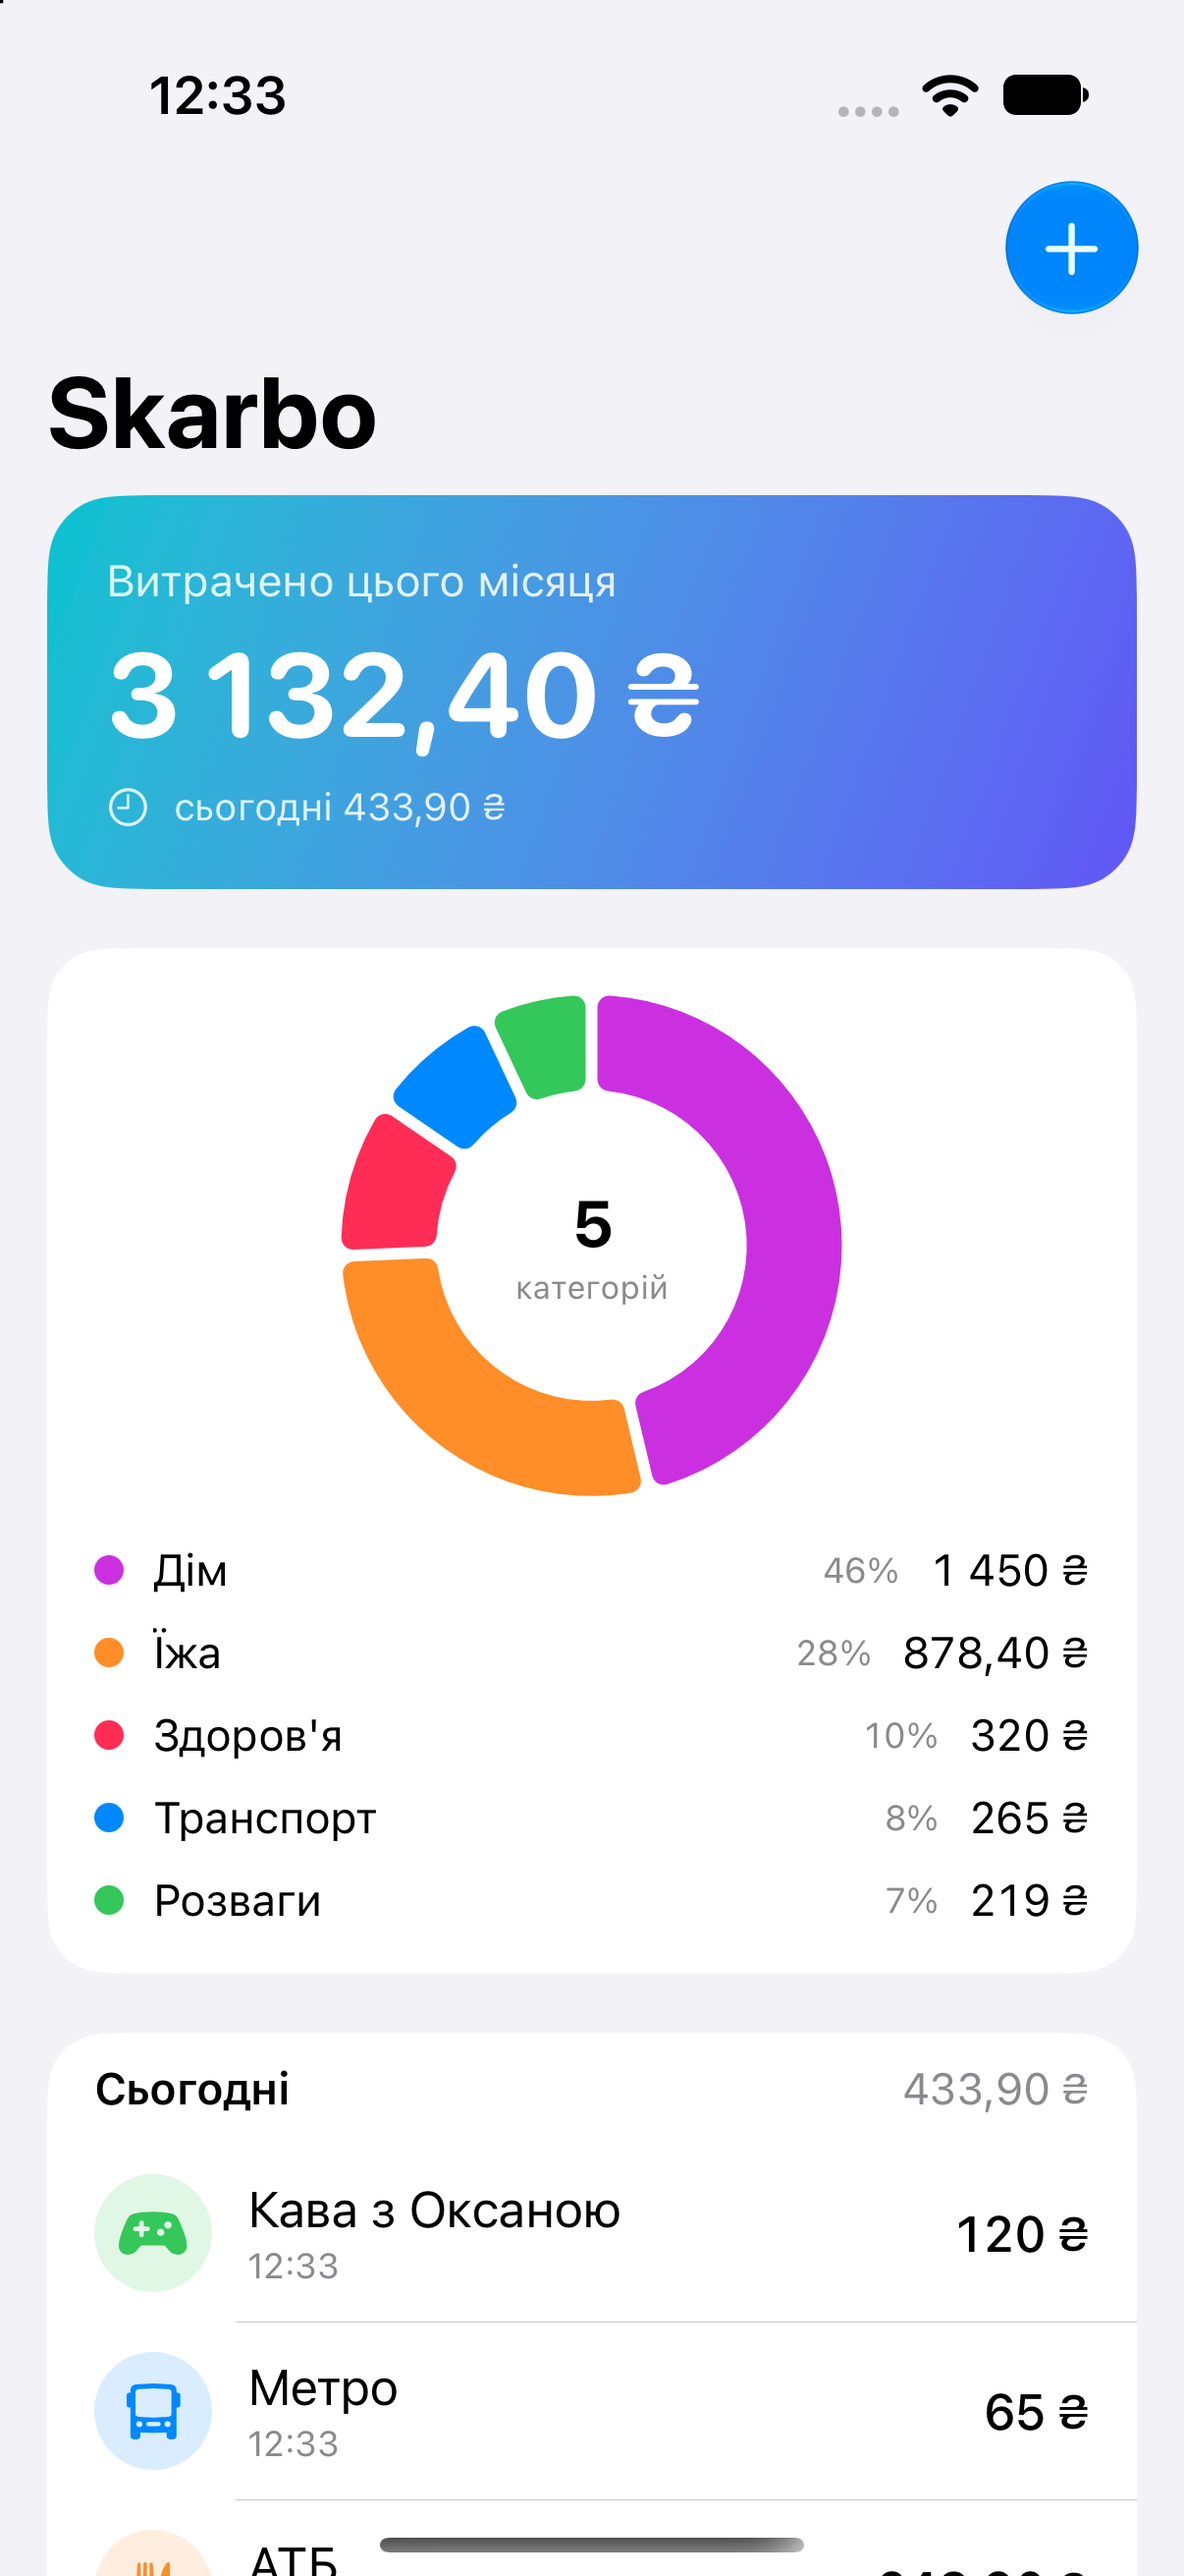
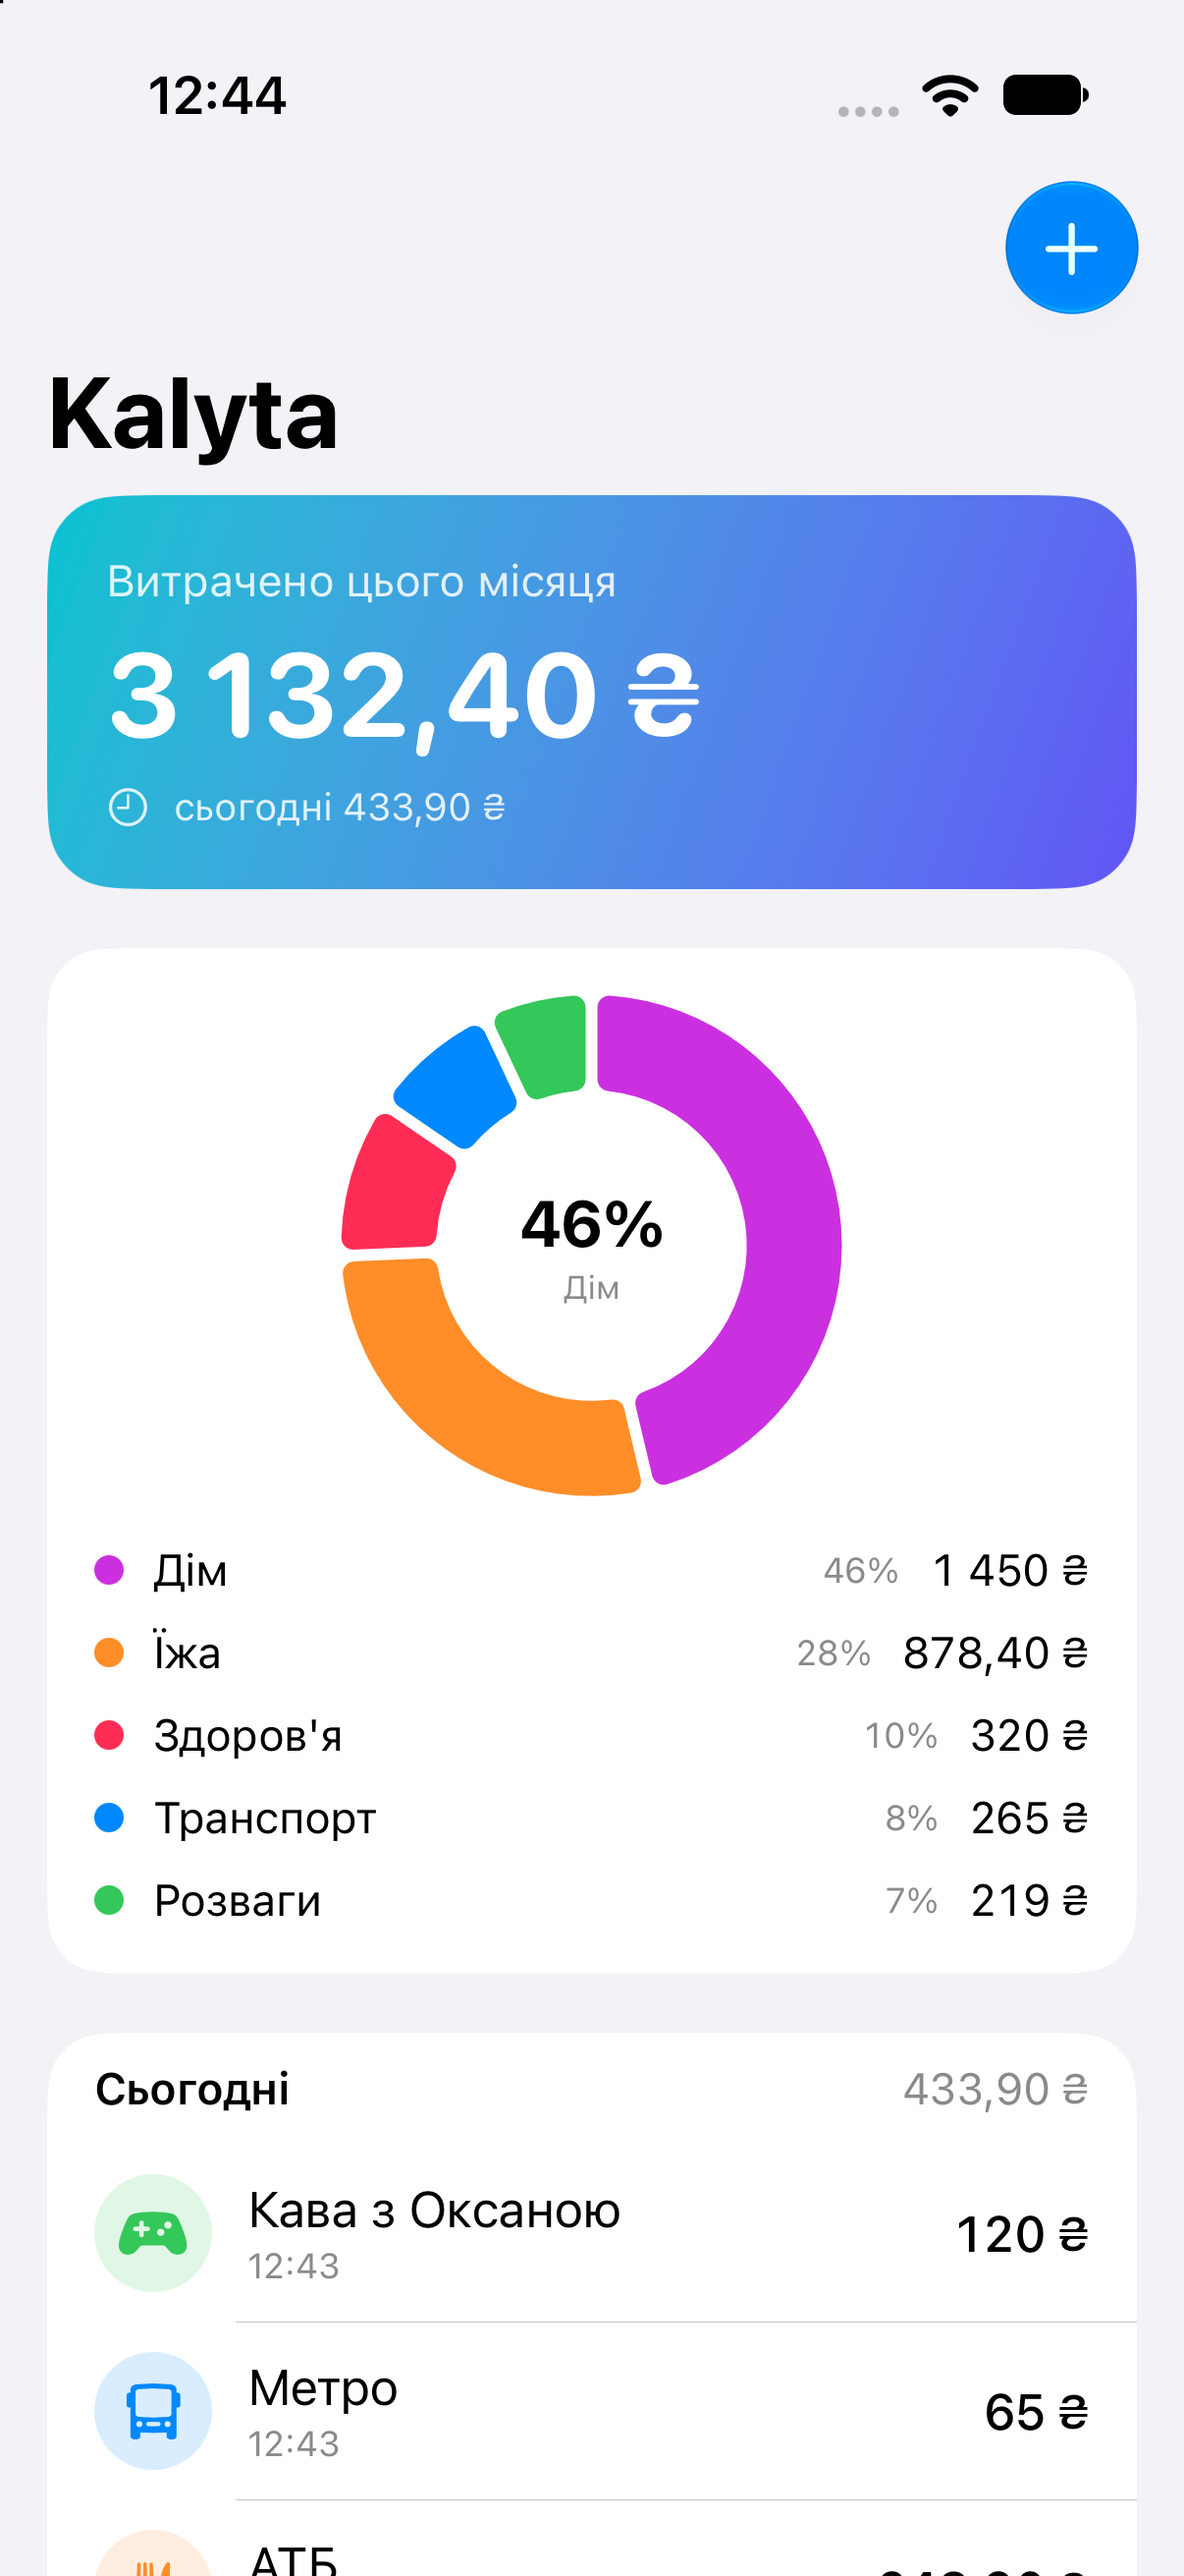
Перейменувати Skarbo → Kalyta
Назва Skarbo вже зайнята наявним застосунком. Перейменовано все:
теку JD, проєкт, схему, таргет, bundle id (org.merzlov.kalyta),
KalytaApp.swift, README і скріншоти.

diff --git a/Kalyta/KalytaApp.swift b/Kalyta/KalytaApp.swift
@@ -2,7 +2,7 @@ import SwiftUI
 import SwiftData
 
 @main
-struct SkarboApp: App {
+struct KalytaApp: App {
     init() {
         if CommandLine.arguments.contains("--selfcheck") { MainActor.assumeIsolated { selfCheck() } }
         if CommandLine.arguments.contains("--demo") { MainActor.assumeIsolated { seedDemo() } }
@@ -16,7 +16,7 @@ struct SkarboApp: App {
 
 /// Доводить, що запис через Store.container (шлях App Intent / Back Tap)
 /// читається тим самим запитом, яким його бачить список на екрані.
-/// Запуск: xcrun simctl launch <sim> org.merzlov.skarbo --selfcheck
+/// Запуск: xcrun simctl launch <sim> org.merzlov.kalyta --selfcheck
 @MainActor
 private func selfCheck() {
     let context = Store.container.mainContext
@@ -42,7 +42,7 @@ private func selfCheck() {
 }
 
 
-/// Наповнює базу прикладами для скріншотів: xcrun simctl launch <sim> org.merzlov.skarbo --demo
+/// Наповнює базу прикладами для скріншотів: xcrun simctl launch <sim> org.merzlov.kalyta --demo
 @MainActor
 private func seedDemo() {
     let context = Store.container.mainContext

diff --git a/Kalyta/QuickAddIntent.swift b/Kalyta/QuickAddIntent.swift
@@ -1,12 +1,12 @@
 import AppIntents
 import SwiftData
 
-/// Точка входу для Shortcuts — саме через неї працюють обидві "преміум" фічі Skarbo:
+/// Точка входу для Shortcuts — саме через неї працюють обидві "преміум" фічі Kalyta:
 /// подвійний тап по спинці (Налаштування → Доступність → Дотик → Тап по задній панелі)
 /// і автозапис оплат (Команди → Автоматизація → Транзакція).
 struct QuickAddExpense: AppIntent {
     static var title: LocalizedStringResource = "Додати витрату"
-    static var description = IntentDescription("Записує витрату в Skarbo без відкриття застосунку.")
+    static var description = IntentDescription("Записує витрату в Kalyta без відкриття застосунку.")
     static var openAppWhenRun = false
 
     @Parameter(title: "Сума", requestValueDialog: "Скільки?")

diff --git a/Kalyta/ContentView.swift b/Kalyta/ContentView.swift
@@ -60,7 +60,7 @@ struct ContentView: View {
                 .padding(.bottom, 24)
             }
             .background(Color(.systemGroupedBackground))
-            .navigationTitle("Skarbo")
+            .navigationTitle("Kalyta")
             .toolbar {
                 Button("Додати", systemImage: "plus") { adding = true }
                     .buttonStyle(.borderedProminent)

diff --git a/README.md b/README.md
@@ -1,4 +1,6 @@
-# Skarbo (open source)
+# Kalyta (open source)
+
+**Калита** — старовинний український гаманець-капшук, що носили на поясі.
 
 Безкоштовний opensource-трекер витрат для iOS. Без підписки, без сервера, без акаунта —
 дані лежать локально у SwiftData на пристрої.
@@ -31,16 +33,16 @@
 ## Як зібрати
 
 ```sh
-xcodebuild -scheme Skarbo -destination 'platform=iOS Simulator,name=iPhone 17' build
+xcodebuild -scheme Kalyta -destination 'platform=iOS Simulator,name=iPhone 17' build
 ```
 
-Або просто відкрити `Skarbo.xcodeproj` у Xcode і натиснути Run. Мінімум iOS 17 (SwiftData).
+Або просто відкрити `Kalyta.xcodeproj` у Xcode і натиснути Run. Мінімум iOS 17 (SwiftData).
 
 ## Перевірка
 
 ```sh
-xcrun simctl launch --console-pty booted org.merzlov.skarbo --selfcheck   # → SELFCHECK OK
-xcrun simctl launch booted org.merzlov.skarbo --demo                      # наповнити прикладами
+xcrun simctl launch --console-pty booted org.merzlov.kalyta --selfcheck   # → SELFCHECK OK
+xcrun simctl launch booted org.merzlov.kalyta --demo                      # наповнити прикладами
 ```
 
 Доводить головне: запис через `Store.container` (шлях App Intent / Back Tap) читається
@@ -49,6 +51,6 @@ xcrun simctl launch booted org.merzlov.skarbo --demo                      # на
 
 ## Налаштувати швидкий запис на iPhone
 
-1. Команди → новий шорткат → дія **Додати витрату** (з'явиться після встановлення Skarbo).
+1. Команди → новий шорткат → дія **Додати витрату** (з'явиться після встановлення Kalyta).
 2. Налаштування → Доступність → Дотик → Тап по задній панелі → Подвійний → цей шорткат.
 3. Автозапис оплат: Команди → Автоматизація → **Транзакція** → той самий шорткат.
